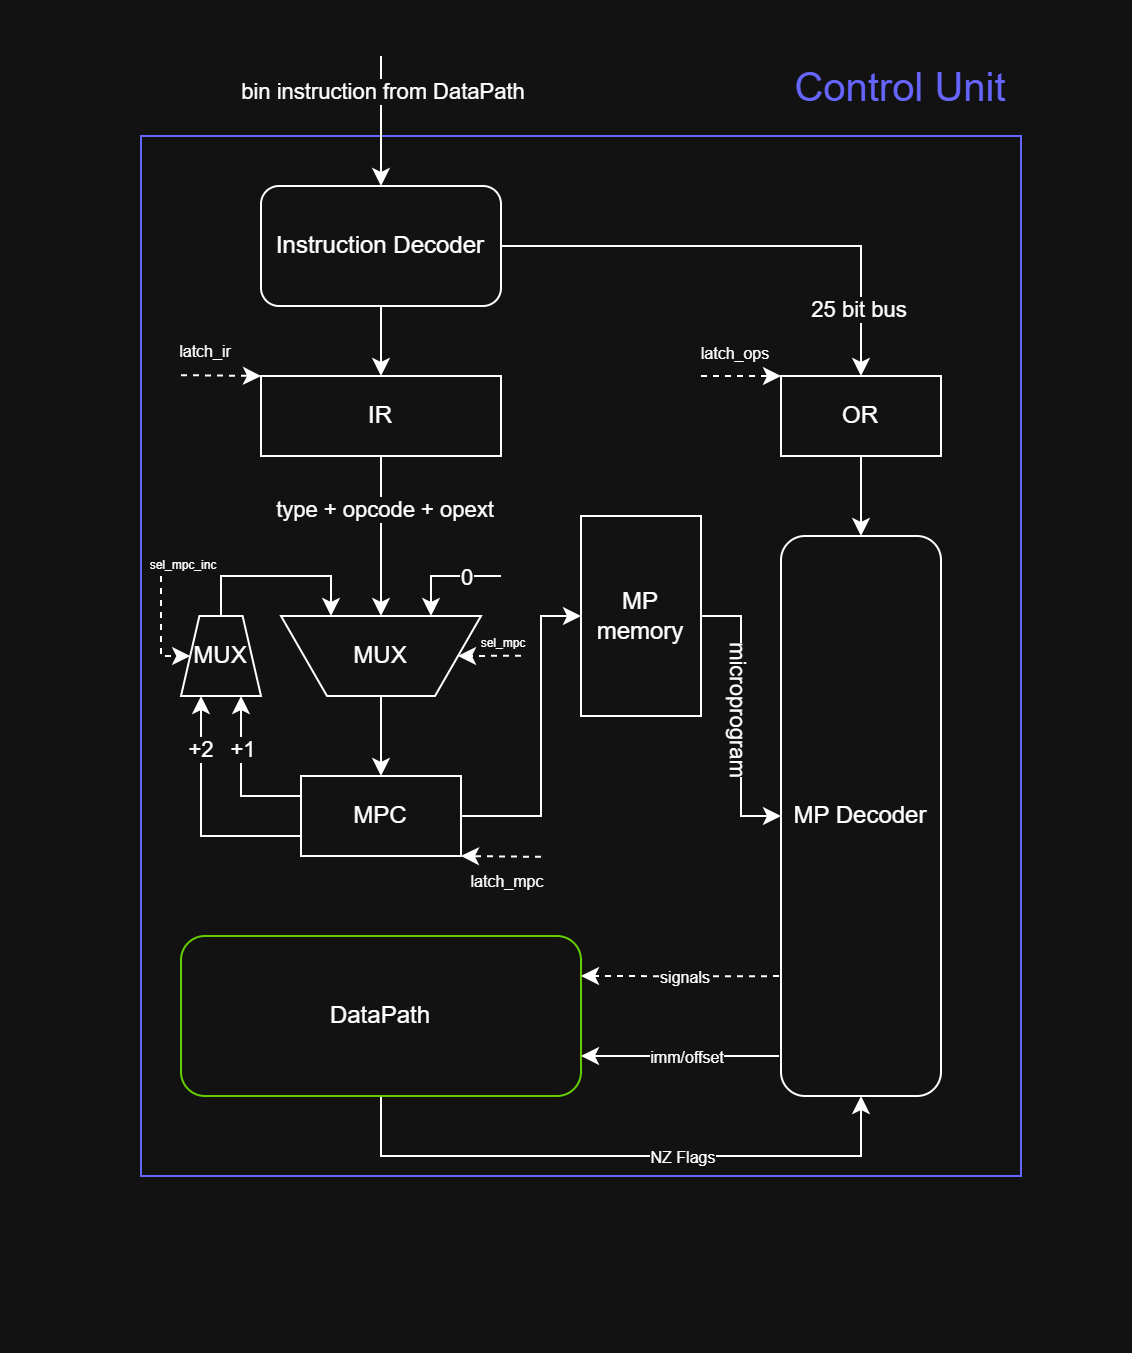
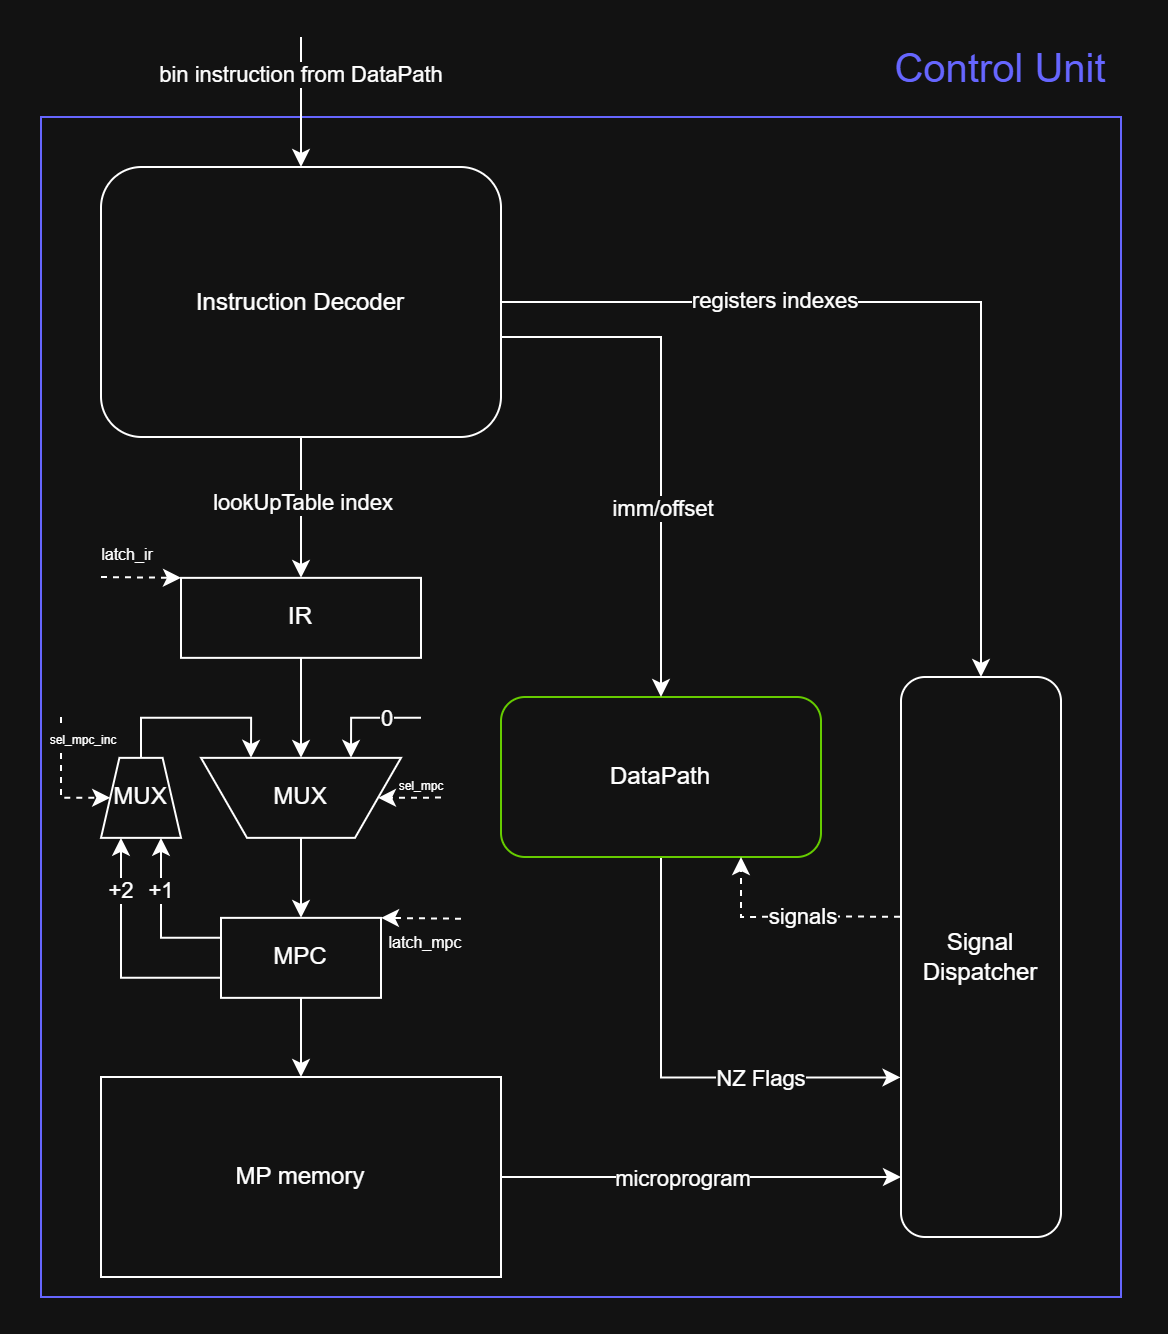
:memo: update scheme & doc

diff --git a/README.md b/README.md
@@ -473,7 +473,6 @@
 | Микрокоманда                 | Описание                                                                                 |
 |------------------------------|------------------------------------------------------------------------------------------|
 | `latch_ir`                   | Прочитать команду из памяти команд и защелкнуть ее операцию в `IR`                       |
-| `latch_rr`                   | Защелкнуть операнды команды из `Instruction Decoder`                                     |
 | `latch_mpc`                  | Защелкнуть значение в `MPC`                                                              |
 | `sel_mpc_inc_one`            | Управляющий сигнал для выбора 1 в качестве инкремента для `MPC`                          |
 | `sel_mpc_inc_two_if_z`       | Управляющий сигнал для выбора 2 в качестве инкремента для `MPC` если `Z` == 1            |
@@ -513,7 +512,7 @@
 ## Транслятор
 
 Интерфейс командной строки: `translator.go <input_file> <target_code_file> <target_data_file>` Реализовано в
-модуле: [translator.go](translator.go)
+модуле: [translator.go](translator/translator.go)
 
 Он выполняет несколько ключевых шагов:
 
@@ -536,8 +535,11 @@
 ## Система ввода-вывода
 
 - Реализован mem-mapped IO
-- Ввод-вывод производится путем обращения к ячейкам `0` и `1` в `Data Memory`
-- При обращении к ячейкам `0` и `1` происходит считывание и запись в буфер соответственно
+- По умолчанию индексы `mmioIn` и `mmioOut` равны `0` и `1` соответственно. Ячейки можно конфигурировать.
+- Конфигурацию ячеек следует проводить предельно внимательно с использованием директивы `.org`. В противном случае могут
+  произойти коллизии ячеек mem-mapped IO с ячейками памяти данных, что вызывает неопределенное поведение
+- Ввод-вывод производится путем обращения к ячейкам `mmioIn` и `mmioOut` в `Data Memory`
+- При обращении к ячейкам `mmioOut` и `mmioOut` происходит считывание и запись в буфер соответственно
 - Для работы с вводом-выводом используются те же команды, что и для обычной работы с памятью: `lw`, `sw`
 - Если в `in` буфере кончаются элементы - процессор прекращает работу
 
@@ -605,31 +607,34 @@
 
 Состоит из:
 
-- `Instruction decoder` - декодер бинарной инструкции. Определяет операцию и разделяет команду на операнды и операцию
-- `IR (Instruction Register)` - регистр для хранения частей отвечающих за операционную часть инструкции
-- `OR (Operands Register)` - регистр, содержащий часть команды с операндами
+- `Instruction decoder` - декодер бинарной инструкции. Содержит Look Up Table маппинга инструкций на микрокоманды.
+  Определяет индекс начальной для инструкции микрокоманды в Look Up Table, отправляет в `Signal Dispatcher` индексы
+  регистров, а `imm/offset` значения в `DataPath`
+- `IR (Index Register)` - регистр для хранения индекса Look Up Table
 - `MPC (MicroProgram Counter)` - счетчик микропрограмм
 - `MP memory` - память микропрограмм
-- `MP Decoder` - осуществляет декодирование микропрограммы, анализ флагов результата и отправляет управляющие сигналы и
-  `imm/offset` в `DataPath`
+- `Signal Dispatcher` - осуществляет выполнение микропрограммы, анализ флагов результата и отправляет управляющие
+  сигналы в `DataPath`
 
 Процесс выполнения программы:
 
 1. На вход `CU` поступает бинарная инструкция из памяти инструкций
-2. Тип команды, опкод и расширение опкода уходят в `IR`, операнды в `OR`
-3. Совокупность значений из `IR` уходит в `MPC`. По значению из него из памяти микрокоманд достается микрокоманда
-4. `Decoder` осуществляет декодирование операндов и отправляет управляющие сигналы в `DataPath`
+2. По совокупности типа команды, опкода и расширение опкода из Look Up Table достается индекс микрокоманды для
+   инструкции. Индексы регистров уходят в `Signal Dispatcher`, `imm/offset` значения в `DataPath`
+3. Индекс из Look Up Table уходит в `IR` операнды в `OR`
+4. Значение из `IR` уходит в `MPC`. По нему из памяти микрокоманд достается микрокоманда
+5. `Signal Dispatcher` отправляет управляющие сигналы микрокоманды в `DataPath`
 
 Сигналы:
 
 - `latch_ir` - защелкнуть значение в `IR`
-- `latch_rr` - защелкнуть значение в `OR`
 - `latch_mpc` - защелкнуть значение в `MPC`
 - `sel_mpc_inc` - селектор инкремента `mpc` (mpc + 1, mpc + 2). Нужен для Branch-Type команд, которые зависят от флагов
   `NZ`
-- `sel_mpc` - выбрать следующее значение для `mpc` (mpc inc, type + opcode + opext from `IR`, 0)
+- `sel_mpc` - выбрать следующее значение для `mpc` (mpc inc, Look Up Table Index from `IR`, 0)
 
-Выполнение микропрограмм происходит в функции. Цикл декодирования и выполнения инструкций происходит в функции.
+Выполнение микропрограмм происходит в функции `dispatchSignal`. Цикл декодирования инструкций происходит в функции
+`decodeInstruction`.
 
 ## Тестирование
 
